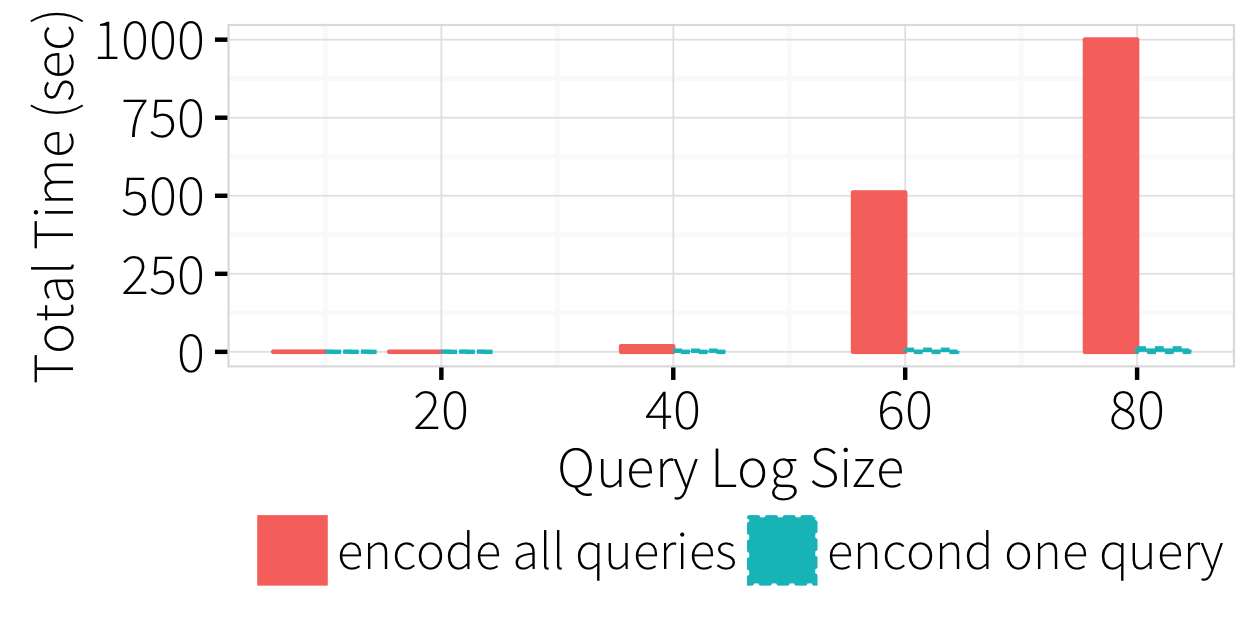
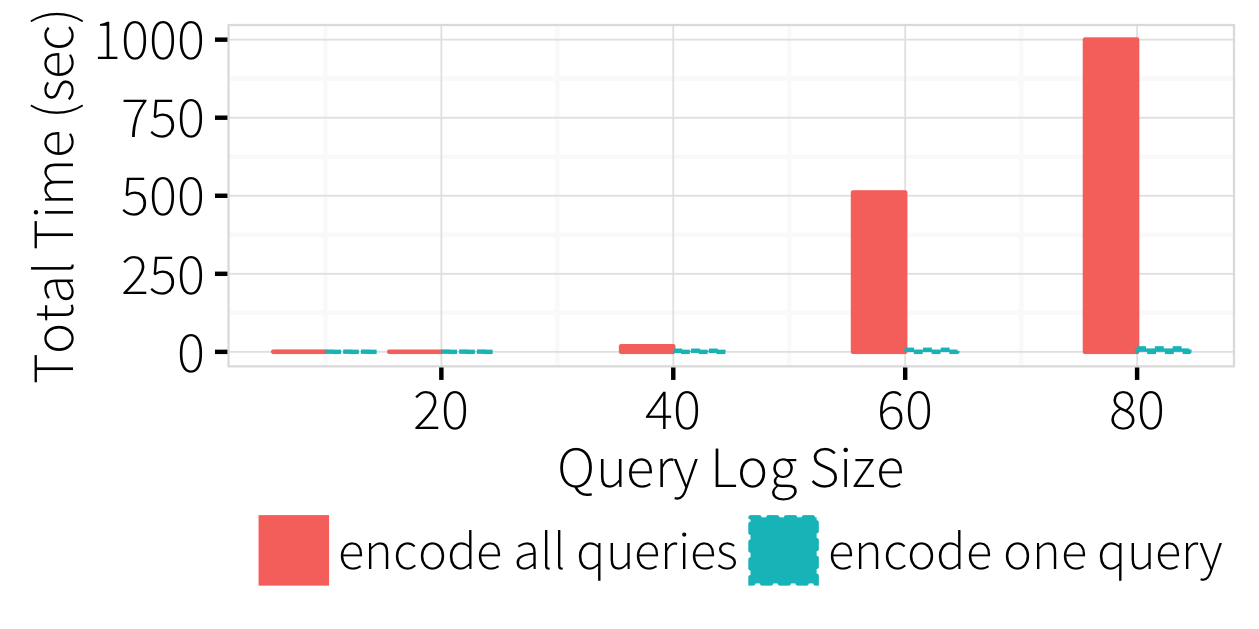
fix fig4

Changed region(s): [[0.6505, 0.8458, 0.9913, 0.9062], [0.2478, 0.8458, 0.5886, 0.9062]]

diff --git a/docs/vldb16/content/example2.tex b/docs/vldb16/content/example2.tex
@@ -57,6 +57,7 @@
     \end{minipage}
 
     \caption{A recent change in tax rate brackets calls for a tax rate of 30\% for those with income above \$87500.  The accounting department issues query $q_1$ to implement the new policy, but the predicate of the WHERE clause condition transposed two digits of the income value.
+\vspace*{-0.1in}
 \iffalse  
 As a result, the owed amount of $t_3$ and $t_4$ were calculated incorrectly. 
 This mistake is obscured by $q_2$ which insert a tuple with correct income and owed amount and later further propagated to additional filed(s) by query $q_3$ which calculates the pay check amount based on the corresponding income and (incorrect) owed values.

diff --git a/docs/vldb16/content/01-introduction.tex b/docs/vldb16/content/01-introduction.tex
@@ -231,6 +231,7 @@ maintaining high accuracy.
     \centering
         \includegraphics[scale=0.35]{figures/architecture}
     \caption{\sys processes data anomalies in the form of complaints and analyzes logged query histories to identify the causes of error. In the heart of the system, transformation algorithms express the diagnosis problem as a mixed integer linear program (MILP), and optimization modules ensure that the MILP programs can be evaluated efficiently.}
+\vspace*{-0.1in}
     \label{fig:architecture}
 \end{figure}
 

diff --git a/docs/vldb16/content/notations.tex b/docs/vldb16/content/notations.tex
@@ -23,5 +23,6 @@
 \end{tabular}
 }
 \caption{Summary of notations used in the paper. }
+\vspace*{-0.1in}
 \label{tbl:notation}
 \end{figure}
